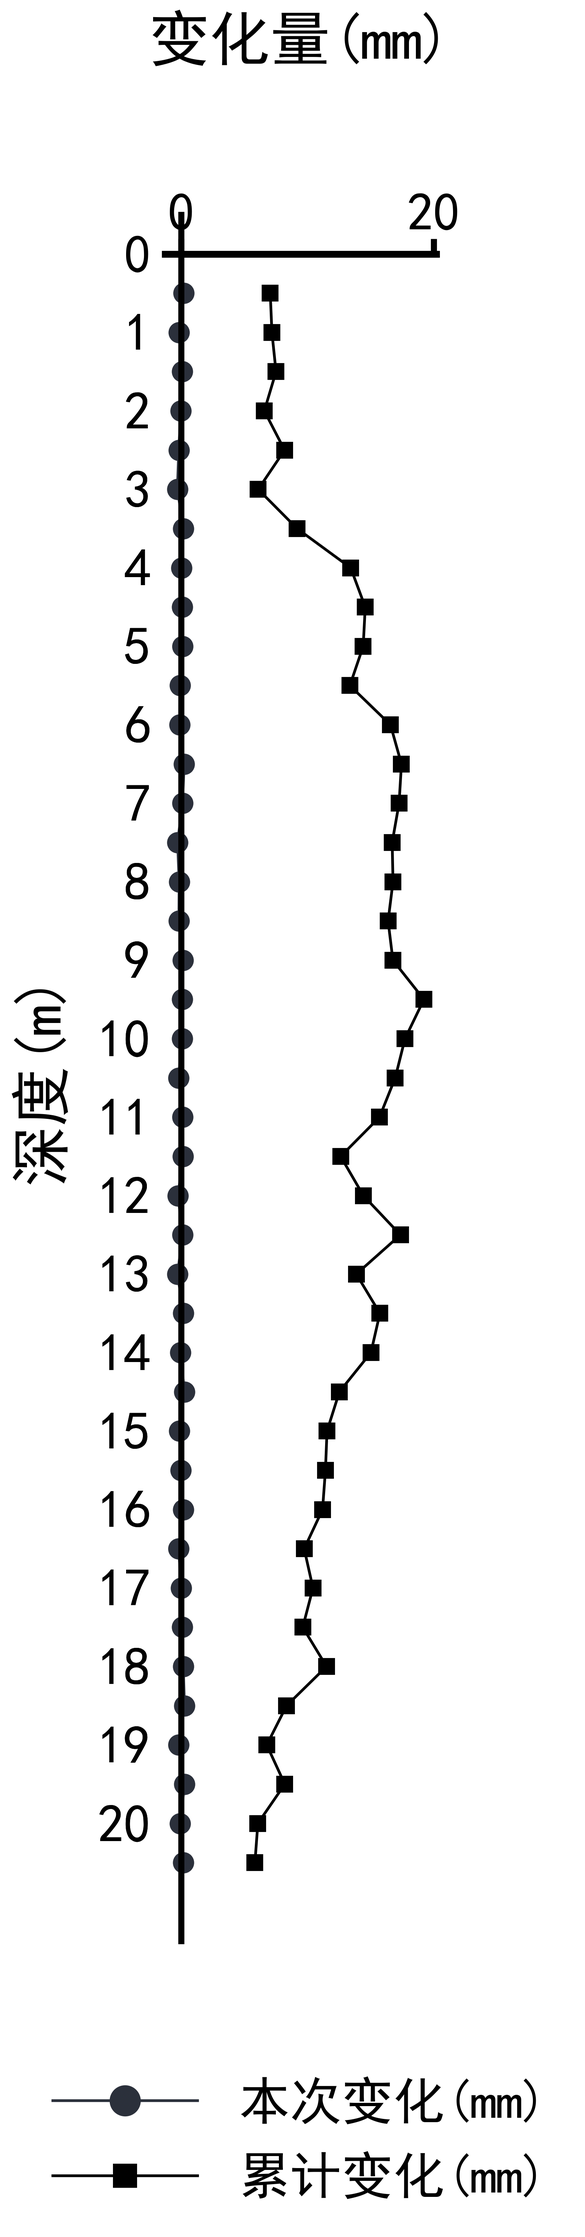
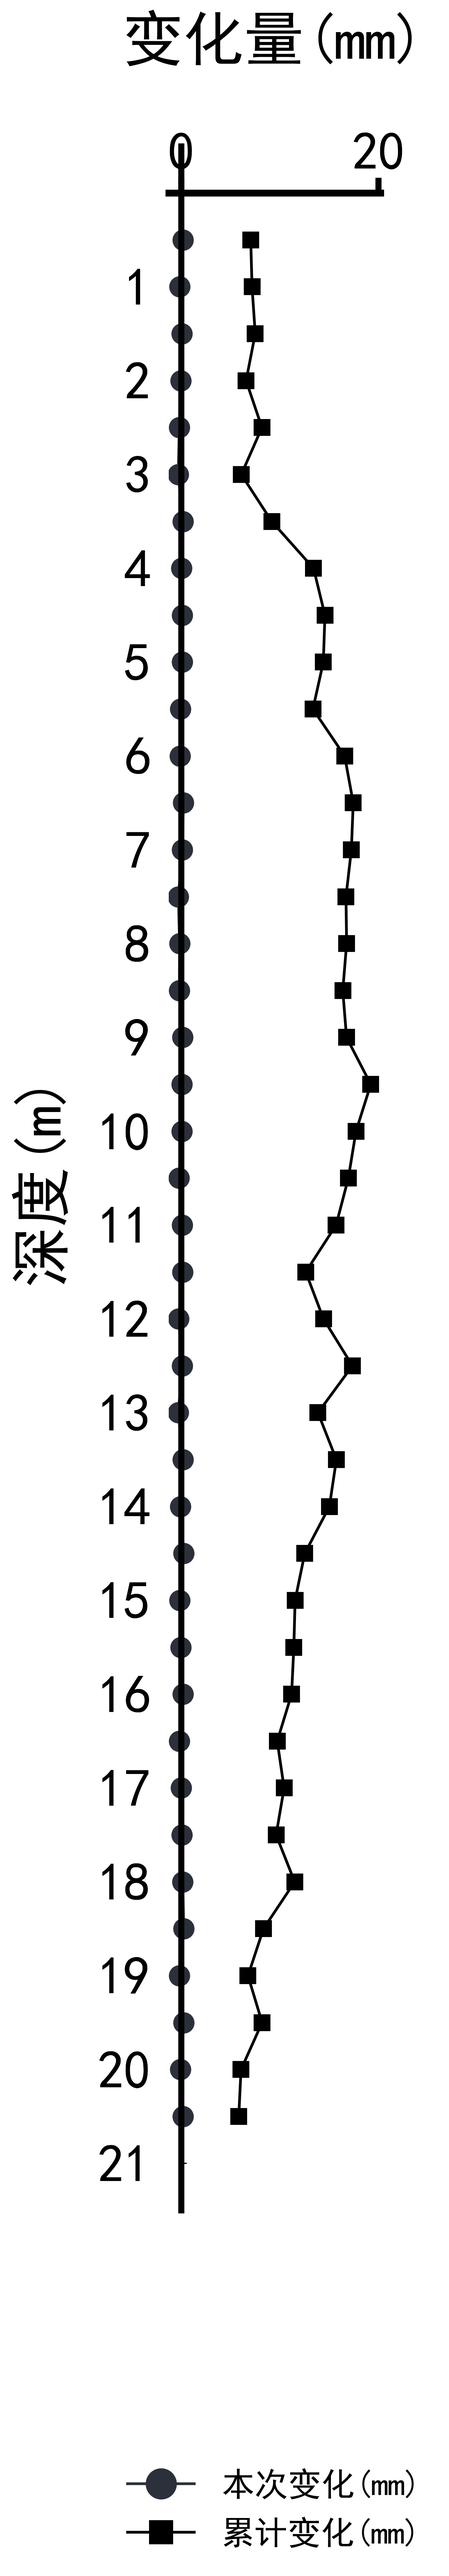
update sections

diff --git a/gen_docx.py b/gen_docx.py
@@ -9,6 +9,7 @@ from docx.enum.text import WD_ALIGN_PARAGRAPH
 from docx.enum.section import WD_ORIENT
 from docx.enum.section import WD_SECTION
 from docx.shared import Cm
+from docx.shared import Mm
 import os
 from datetime import datetime
 from collections import namedtuple
@@ -97,11 +98,18 @@ class MyDocx(object):
 		
 		self.docx = Document()
 
+		#页面布局为A4 宽210mm*高297mm
+		section = self.docx.sections[0]
+		section.page_width = Mm(210)
+		section.page_height = Mm(297)
+
 		#页面布局为纵向横向
+		'''
 		new_section = self.docx.add_section(WD_SECTION.ODD_PAGE)
 		new_section.orientation = WD_ORIENT.PORTRAIT
 		new_section.page_width = Cm(21)
 		new_section.page_height = Cm(29.7)
+		'''
 
 		#首页
 		if not self.make_header_pages():
@@ -116,10 +124,17 @@ class MyDocx(object):
 			self.docx.save(self.path)
 
 		#页面布局为横向
-		new_section = self.docx.add_section(WD_SECTION.ODD_PAGE)
+		new_section = self.docx.add_section(WD_SECTION.NEW_PAGE)
 		new_section.orientation = WD_ORIENT.LANDSCAPE
-		new_section.page_width = Cm(29.7)
-		new_section.page_height = Cm(21)
+		new_section.page_width = Mm(297)
+		new_section.page_height = Mm(210)
+		new_section.top_margin = Cm(2.8)
+		new_section.bottom_margin = Cm(2.6)
+		new_section.left_margin = Cm(2.5)
+		new_section.right_margin = Cm(2.7)
+		new_section.header_distance = Cm(1)
+		new_section.footer_distance = Cm(1)
+
 
 
 		#现场安全巡视页
@@ -129,10 +144,16 @@ class MyDocx(object):
 			pass
 
 		#页面布局为纵向横向
-		new_section = self.docx.add_section(WD_SECTION.ODD_PAGE)
+		new_section = self.docx.add_section(WD_SECTION.NEW_PAGE)
 		new_section.orientation = WD_ORIENT.PORTRAIT
-		new_section.page_width = Cm(21)
-		new_section.page_height = Cm(29.7)
+		new_section.page_width = Mm(210)
+		new_section.page_height = Mm(297)
+		new_section.top_margin = Cm(2.7)
+		new_section.bottom_margin = Cm(2.5)
+		new_section.left_margin = Cm(2.8)
+		new_section.right_margin = Cm(2.6)
+		new_section.header_distance = Cm(1)
+		new_section.footer_distance = Cm(1)
 
 		#沉降监测表页
 		if not self.make_settlement_pages():
@@ -149,16 +170,34 @@ class MyDocx(object):
 
 		#new section landscape
 		#页面布局为横向
-		new_section = self.docx.add_section(WD_SECTION.ODD_PAGE)
+		new_section = self.docx.add_section(WD_SECTION.NEW_PAGE)
 		new_section.orientation = WD_ORIENT.LANDSCAPE
-		new_section.page_width = Cm(29.7)
-		new_section.page_height = Cm(21)
+		new_section.page_width = Mm(297)
+		new_section.page_height = Mm(210)
+		new_section.top_margin = Cm(2.17)
+		new_section.bottom_margin = Cm(2.17)
+		new_section.left_margin = Cm(2.54)
+		new_section.right_margin = Cm(2.54)
+		new_section.header_distance = Cm(1.5)
+		new_section.footer_distance = Cm(1.75)
 
 		#爆破振动监测报表
 		if not self.make_blasting_pages():
 			print("DEBUG make_blasting_pages error")
 		else:
 			pass
+
+		#页面布局
+		new_section = self.docx.add_section(WD_SECTION.NEW_PAGE)
+		new_section.orientation = WD_ORIENT.LANDSCAPE
+		new_section.page_width = Mm(297)
+		new_section.page_height = Mm(210)
+		new_section.top_margin = Cm(3.17)
+		new_section.bottom_margin = Cm(3.17)
+		new_section.left_margin = Cm(2.54)
+		new_section.right_margin = Cm(2.54)
+		new_section.header_distance = Cm(1.5)
+		new_section.footer_distance = Cm(1.75)
 
 		#平面布点图
 		if not self.make_layout_pages():
@@ -203,8 +242,8 @@ class MyDocx(object):
 
 		result = False
 		d = self.docx
-		d.add_heading(self.proj.name, 0)
-		d.add_heading(self.proj.area, 0)
+		d.add_paragraph(self.proj.name)
+		d.add_paragraph(self.proj.area)
 
 		d.add_paragraph("第三方检测日报")
 		d.add_paragraph("(第%s次)" % self.proj.code.split('-')[-1])
@@ -346,10 +385,10 @@ class MyDocx(object):
 				acc_abs_values = []
 				#获取'初值'这一列，在第3列
 				initial_range_values = px.get_range_values(sheet, area_name, 3)
-				print("DEBUG '初始值列':{}".format(initial_range_values))
+				#print("DEBUG '初始值列':{}".format(initial_range_values))
 				#获取'旧累计'这一列，在第4列
 				old_acc_range_values = px.get_range_values(sheet, area_name, 4)
-				print("DEBUG '旧累计值列':{}".format(old_acc_range_values))
+				#print("DEBUG '旧累计值列':{}".format(old_acc_range_values))
 				for i in range(ln):
 					new_v = today_range_values[i]
 					init_v = initial_range_values[i]
@@ -360,10 +399,10 @@ class MyDocx(object):
 						acc_values.append((float(new_v)-float(init_v))*1000+float(oacc_v))
 					else:
 						acc_values.append(0)
-				print("DEBUG '本次累计值列':{}".format(acc_values))
+				#print("DEBUG '本次累计值列':{}".format(acc_values))
 				acc_abs_values = list(map(abs,acc_values))
 				max_acc = max(acc_abs_values)
-				print("DEBUG '最大累计值'是:{} ".format(max_acc))
+				#print("DEBUG '最大累计值'是:{} ".format(max_acc))
 				max_acc_idx = acc_abs_values.index(max_acc)
 				row_index = max_acc_idx + row_start
 				s_index = 'B%d'%row_index
@@ -460,12 +499,17 @@ class MyDocx(object):
 		p = d.add_paragraph()
 		p.add_run("四、建议")
 
-		ss = "监测单位:             （盖章）"
+		for i in range(12):
+			d.add_paragraph()
+
+		ss = "监测单位：                   （盖章）              "
 		p = d.add_paragraph()
 		p.add_run(ss)
-		ss = "负责人：              年  月  日 "
+		p.paragraph_format.alignment = WD_ALIGN_PARAGRAPH.RIGHT
+		ss = "负责人：                   年     月     日             "
 		p = d.add_paragraph()
 		p.add_run(ss)
+		p.paragraph_format.alignment = WD_ALIGN_PARAGRAPH.RIGHT
 
 		result = True
 		return result
@@ -563,13 +607,9 @@ class MyDocx(object):
 		i = 0
 		for area_name in areas:
 			print("###开始生成 {} 现场巡查报表###".format(area_name))
-			#加docx session，使用更加宽的页面布局
-			#pass
 
 			#test debug only one area
 			if '衡山路站' in area_name:
-				###new page###########
-				d.add_page_break()
 				i += 1
 				ss = '表' + '%d'%i + ' 现场安全巡视表'
 				p = d.add_paragraph()
@@ -752,14 +792,14 @@ class MyDocx(object):
 
 		#求七天的累计变化列表
 		#array type 矩阵
-		print("DEBUG array(value_list)", array(value_list))
-		print("shape array = ", array(value_list).shape)
-		print("DEBUG init_values", init_values)
-		print("DEBUG init_vlaues le2=",len(init_values))
+		#print("DEBUG array(value_list)", array(value_list))
+		#print("shape array = ", array(value_list).shape)
+		#print("DEBUG init_values", init_values)
+		#print("DEBUG init_vlaues le2=",len(init_values))
 		all_acc_diffs = []
 		all_acc_diffs = (array(value_list) - init_values)*1000 + old_acc_values
-		print("DEBUG all_acc_diffs=",all_acc_diffs)
-		print("DEBUG all_acc_diffs.shape=",all_acc_diffs.shape)
+		#print("DEBUG all_acc_diffs=",all_acc_diffs)
+		#print("DEBUG all_acc_diffs.shape=",all_acc_diffs.shape)
 
 		#画图
 		idx_list = []
@@ -877,7 +917,7 @@ class MyDocx(object):
 				print("------DEBUG, '{}, {}' 沉降变化监测表{}/{}---".format(\
 					area_name, sheet,i,split_num))
 				###new page###########
-				d.add_page_break()
+				#d.add_page_break()
 				self.write_settlement_header(area_name)
 				p = d.add_paragraph()	
 				p.add_run(area_name+sheet+'监测报表'+'%d/%d'%(i,split_num))
@@ -1063,7 +1103,8 @@ class MyDocx(object):
 			fig_path = self.my_plot.draw_inclinometer_fig(deep_values,diff_values,acc_values)
 			p = t.cell(3,4+4*i).paragraphs[0]
 			run = p.add_run()
-			run.add_picture(fig_path, width=Cm(2.8), height=Cm(deep_values[-1])*0.68)
+			run.add_picture(fig_path, width=Cm(2.5), \
+				height=Cm(deep_values[-1])*0.68+2.11)
 			p.paragraph_format.alignment = WD_ALIGN_PARAGRAPH.CENTER
 
 		#end for i in range(len(sub_obser_list)):
@@ -1239,7 +1280,6 @@ class MyDocx(object):
 		d = self.docx
 		px = self.my_xlsx
 
-
 		p = d.add_paragraph()
 		p.add_run(self.proj.name)
 		p.paragraph_format.alignment = WD_ALIGN_PARAGRAPH.CENTER
@@ -1278,6 +1318,15 @@ class MyDocx(object):
 
 		t.cell(1,6).merge(t.cell(1,11))
 		t.cell(1,6).text = "振动速度及主频频率"
+
+		t.cell(2,6).merge(t.cell(2,7))
+		t.cell(2,6).text = "最大向径分量"
+		t.cell(2,8).merge(t.cell(2,9))
+		t.cell(2,8).text = "最大切向分量"
+		t.cell(2,10).merge(t.cell(2,11))
+		t.cell(2,10).text = "最大垂直分量"
+
+
 		t.cell(1,12).merge(t.cell(3,12))
 		t.cell(1,12).text = "允许爆破振速度(cm/s)"
 
@@ -1291,7 +1340,15 @@ class MyDocx(object):
 		t.cell(7,0).text = "备注: "
 		t.cell(7,1).merge(t.cell(7,12))
 
-		self.write_settlement_foot()
+		p = d.add_paragraph()
+		s = "现场监测人: "
+		p.add_run(s)
+		s = "                        计算人: "
+		p.add_run(s)
+		s = "                        校核人: "
+		p.add_run(s)
+		s = "                        监测项目负责人: "
+		p.add_run(s)
 
 		return True
 	###############make_blasting_pages()########################

diff --git a/draw_plot.py b/draw_plot.py
@@ -6,7 +6,8 @@
 import matplotlib.pyplot as plt
 import matplotlib.dates as mdate
 import os
-import numpy as np
+from math import ceil
+
 #显示中文
 MARKERS_ARRAY=['.', ',', 'o', 'v', '^', '<', '>', '1', '2', '3', '4', '8', 's', 'p', \
 '*', 'h', 'H', '+', 'x', 'D', 'd', '|', '_', 'P', 'X']
@@ -34,9 +35,9 @@ class MyPlot(object):
 		'''
 		ln = len(sample_list)
 
-		print("DEBUG draw_date_plot")
-		print("DEBUG date_list=",date_list)
-		print("DEBUG sample_list=",sample_list)
+		print("DEBUG draw_settlement_fig")
+		#print("DEBUG date_list=",date_list)
+		#print("DEBUG sample_list=",sample_list)
 
 		#self.ax.xaxis.set_major_formatter(mdate.DateFormatter('%Y-%m-%d %H:%M:%S'))
 		#self.plt.gca().xaxis.set_major_formatter(mdate.DateFormatter('%m-%d'))
@@ -51,9 +52,9 @@ class MyPlot(object):
 		#self.plt.legend(loc='upper center',bbox_to_anchor=(0.5,1.08),ncol=4,\
 		#	fancybox=True,shadow=False)
 		self.plt.legend(loc='center right',bbox_to_anchor=(1.,0.5),ncol=1,\
-			fancybox=True,shadow=True,markerscale=1.1,borderpad = 0.5,labelspacing=0.02,\
-			handlelength=1.3,columnspacing=0.02, fontsize=20)
-		self.plt.grid(linewidth='0.5',linestyle='-.')
+			fancybox=True,shadow=True,markerscale=1.1,borderpad = 0.5,\
+			labelspacing=0.02,handlelength=1.3,columnspacing=0.02, fontsize=20)
+		self.plt.grid(linewidth='0.8',linestyle='-.')
 
 		#旋转横轴刻度文字
 		#self.plt.gcf().autofmt_xdate()
@@ -85,7 +86,7 @@ class MyPlot(object):
 		'''
 
 		self.plt = plt
-		self.plt.rcParams['figure.figsize'] = (3.2,deep_values[-1])
+		self.plt.rcParams['figure.figsize'] = (2.5,deep_values[-1]+4)
 		self.plt.rcParams['font.sans-serif'] = ['SimHei']
 		self.plt.rcParams['axes.unicode_minus'] = False
 		self.plt.rcParams['xtick.direction'] = 'in' 
@@ -120,7 +121,7 @@ class MyPlot(object):
 		#self.plt.ylim(0,len(acc_values))
 		ax.invert_yaxis()
 		#设置x轴标签的位置，靠外
-		ax.xaxis.labelpad = -160
+		ax.xaxis.labelpad = -150
 
 		#y坐标离轴多远
 		ax.tick_params(axis='y', which='major', pad=20)
@@ -128,14 +129,14 @@ class MyPlot(object):
 
 		self.plt.legend(loc='lower center',ncol=1,bbox_to_anchor=(0.5,-0.180),\
 			markerscale=1.5,borderpad=0.5,labelspacing=0.52,frameon=False,\
-			handlelength=2.8,columnspacing=0.12, fontsize=34,fancybox=False,\
+			handlelength=2.0,columnspacing=0.12, fontsize=28,fancybox=False,\
 			shadow=False)
 
 		y = self.plt.ylabel('深度(m)', fontsize=40,labelpad=20)
 		#y.set_rotation(0)
 		self.plt.xlabel('变化量(mm)', fontsize=40)
 		#使y轴显示整数深度的刻度
-		self.plt.yticks(list(map(int,deep_values)))
+		self.plt.yticks(list(map(ceil,deep_values)))
 
 		#刻度数值大小
 		self.plt.tick_params(axis='both', labelsize=35)
